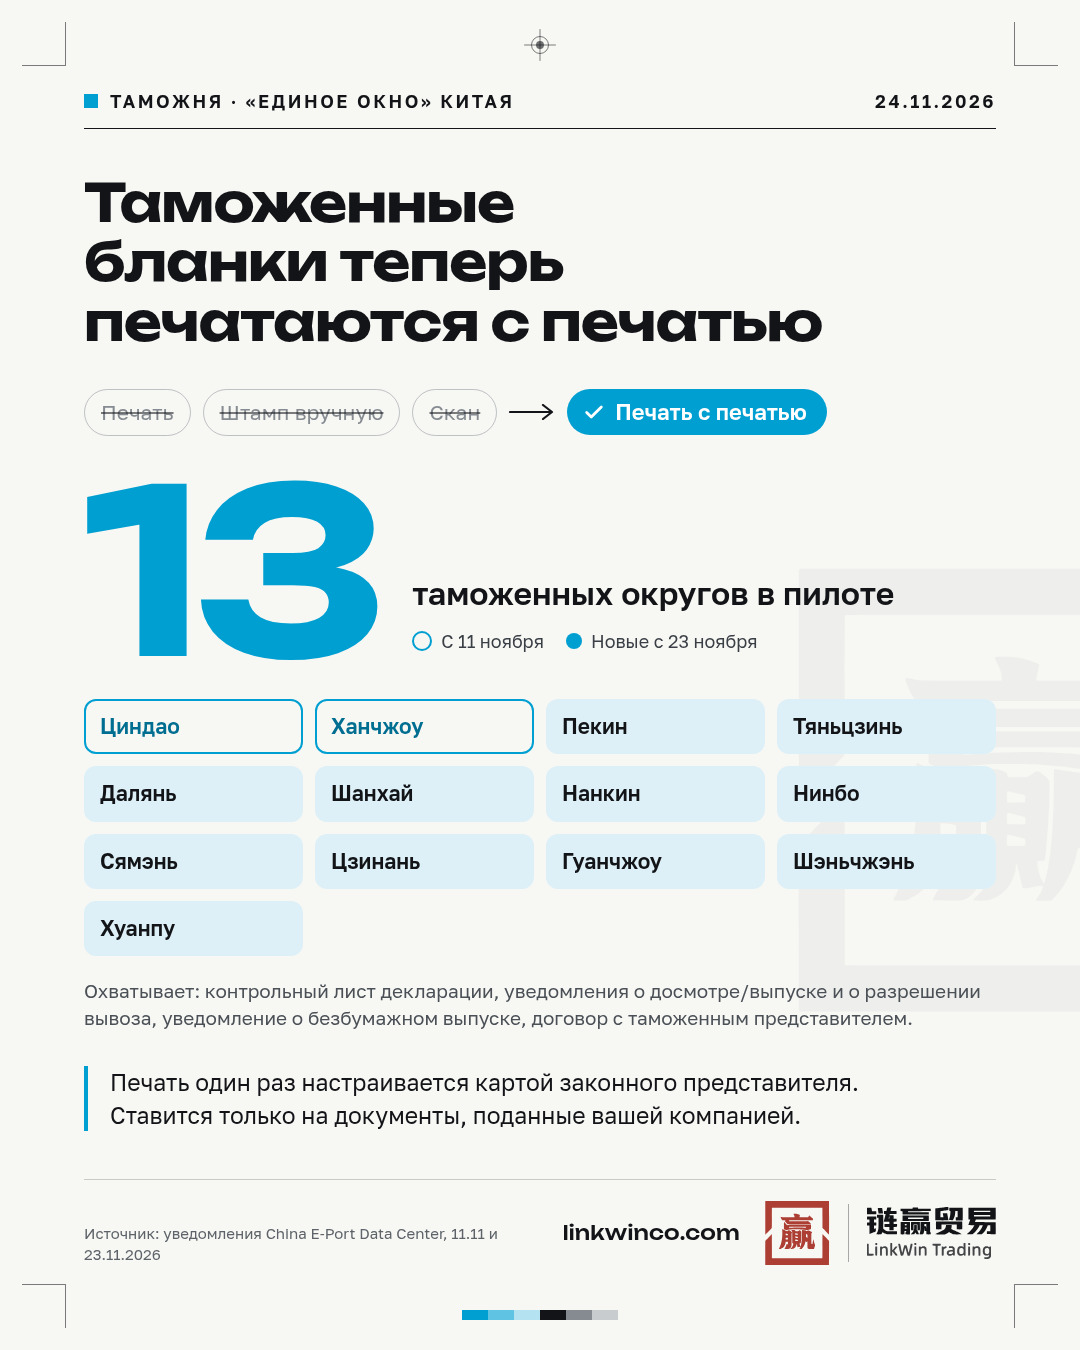
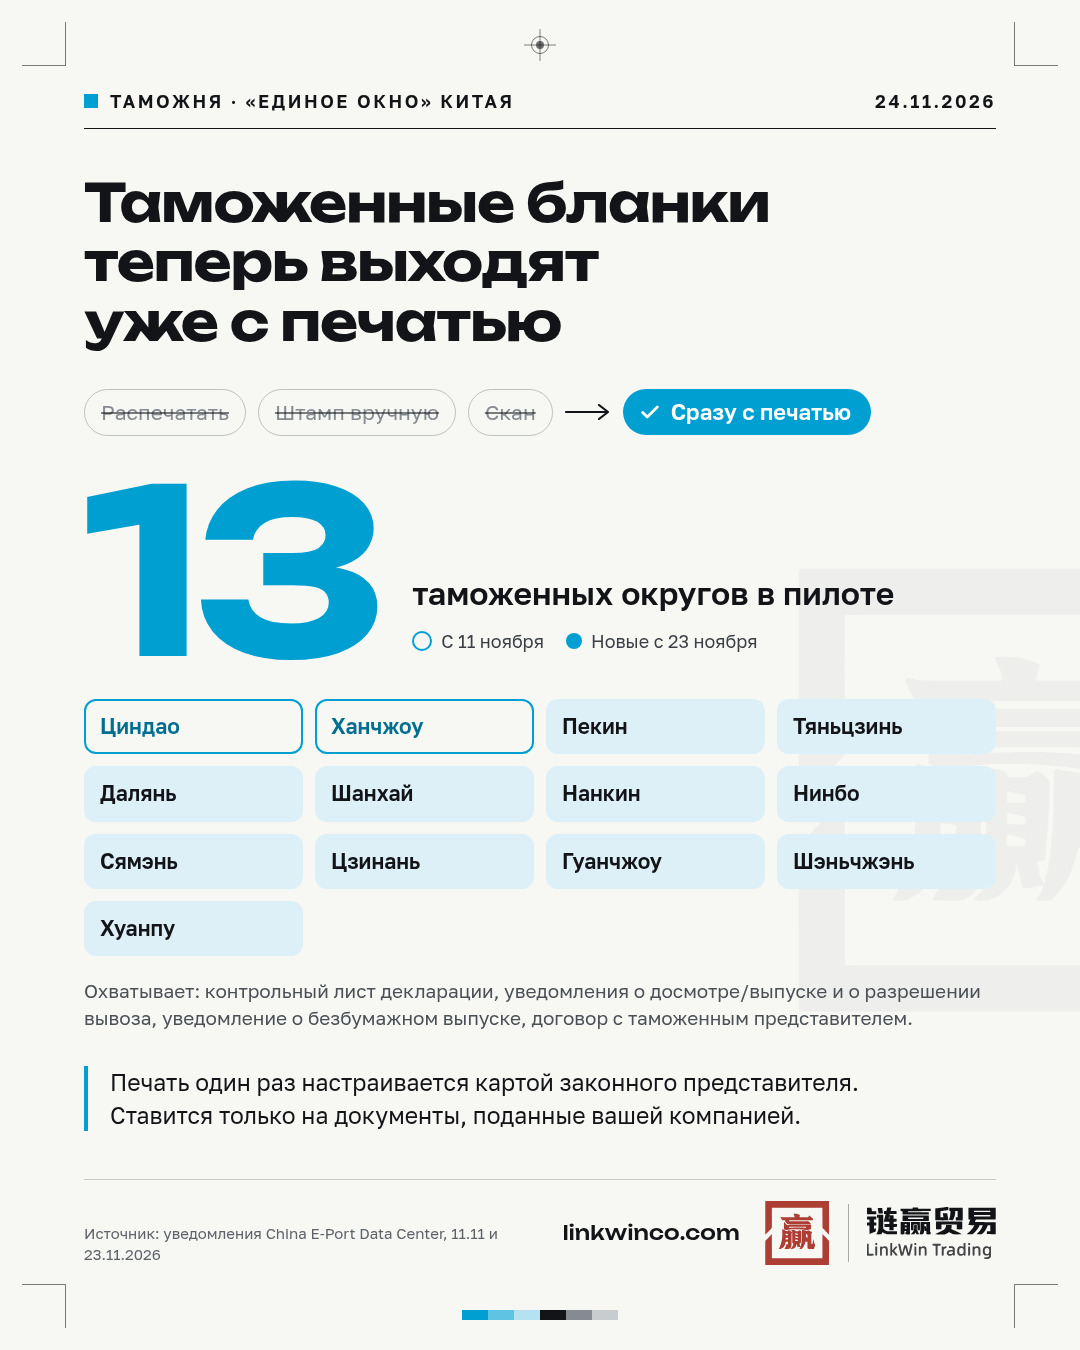
2026-11-24: RU wording polish

Changed region(s): [[0.0611, 0.1244, 0.825, 0.3422]]

diff --git a/templates/2026-11-24-auto-stamp-ru.html b/templates/2026-11-24-auto-stamp-ru.html
@@ -63,8 +63,8 @@ h1{margin-top:44px;font:700 52px/1.14 'Unbounded',sans-serif;letter-spacing:-.02
 <div class="bars"><i style="background:#009FD1"></i><i style="background:#5FC3E4"></i><i style="background:#B4E2F1"></i><i style="background:#121417"></i><i style="background:#858B91"></i><i style="background:#C9CCCF"></i></div>
 <div class="main">
   <div class="mast"><span class="k">Таможня · «Единое окно» Китая</span><span>24.11.2026</span></div>
-  <h1>Таможенные бланки теперь печатаются с печатью</h1>
-  <div class="proc"><span class="p">Печать</span><span class="p">Штамп вручную</span><span class="p">Скан</span><svg viewBox="0 0 46 16" class="ar"><path d="M1 8H42M34 1L43 8L34 15" fill="none" stroke="currentColor" stroke-width="2.2" stroke-linecap="round" stroke-linejoin="round"/></svg><span class="n"><svg viewBox="0 0 24 24" class="ck"><path d="M4 12.5l5 5L20 6.5" fill="none" stroke="currentColor" stroke-width="3" stroke-linecap="round" stroke-linejoin="round"/></svg>Печать с печатью</span></div>
+  <h1>Таможенные бланки теперь выходят уже с&nbsp;печатью</h1>
+  <div class="proc"><span class="p">Распечатать</span><span class="p">Штамп вручную</span><span class="p">Скан</span><svg viewBox="0 0 46 16" class="ar"><path d="M1 8H42M34 1L43 8L34 15" fill="none" stroke="currentColor" stroke-width="2.2" stroke-linecap="round" stroke-linejoin="round"/></svg><span class="n"><svg viewBox="0 0 24 24" class="ck"><path d="M4 12.5l5 5L20 6.5" fill="none" stroke="currentColor" stroke-width="3" stroke-linecap="round" stroke-linejoin="round"/></svg>Сразу с печатью</span></div>
   <div class="mid"><div class="num">13</div><div class="ml"><div class="l">таможенных округов в пилоте</div><div class="leg"><span class="o">С 11 ноября</span><span class="f">Новые с 23 ноября</span></div></div></div>
   <div class="grid"><div class="chip old">Циндао</div><div class="chip old">Ханчжоу</div><div class="chip nw">Пекин</div><div class="chip nw">Тяньцзинь</div><div class="chip nw">Далянь</div><div class="chip nw">Шанхай</div><div class="chip nw">Нанкин</div><div class="chip nw">Нинбо</div><div class="chip nw">Сямэнь</div><div class="chip nw">Цзинань</div><div class="chip nw">Гуанчжоу</div><div class="chip nw">Шэньчжэнь</div><div class="chip nw">Хуанпу</div></div>
   <div class="cov">Охватывает: контрольный лист декларации, уведомления о досмотре/выпуске и о разрешении вывоза, уведомление о безбумажном выпуске, договор с таможенным представителем.</div>

diff --git a/scripts/2026-11-24-auto-stamp.py b/scripts/2026-11-24-auto-stamp.py
@@ -44,8 +44,8 @@ T = {
   tip="Set the seal up once with the legal‑rep card. It stamps only forms your company declared.",
   src="Source: China E‑Port Data Center notices, 11 &amp; 23 Nov 2026"),
 "ru": dict(cov="Охватывает: контрольный лист декларации, уведомления о досмотре/выпуске и о разрешении вывоза, уведомление о безбумажном выпуске, договор с таможенным представителем.", dir="ltr", kicker="Таможня · «Единое окно» Китая", date="24.11.2026",
-  h="Таможенные бланки теперь печатаются с печатью",
-  proc=["Печать", "Штамп вручную", "Скан"], new="Печать с печатью",
+  h="Таможенные бланки теперь выходят уже с&nbsp;печатью",
+  proc=["Распечатать", "Штамп вручную", "Скан"], new="Сразу с печатью",
   num="13", numl="таможенных округов в пилоте", leg=("С 11 ноября", "Новые с 23 ноября"),
   d=dict(qd="Циндао", hz="Ханчжоу", bj="Пекин", tj="Тяньцзинь", dl="Далянь", sh="Шанхай", nj="Нанкин", nb="Нинбо",
          xm="Сямэнь", jn="Цзинань", gz="Гуанчжоу", sz="Шэньчжэнь", hp="Хуанпу"),
